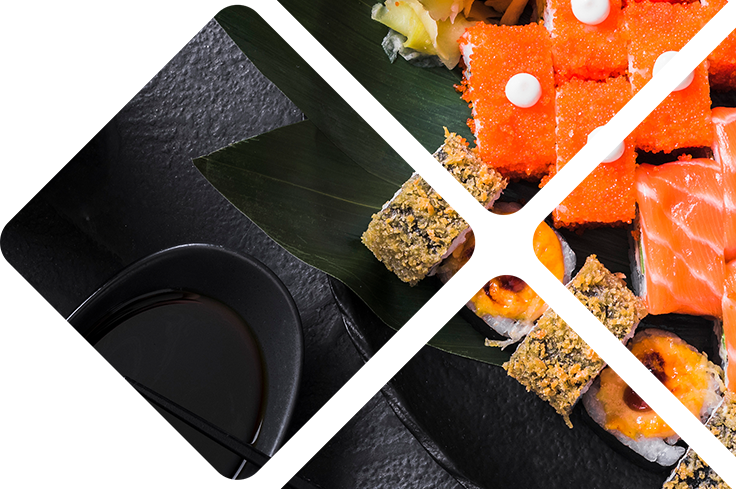
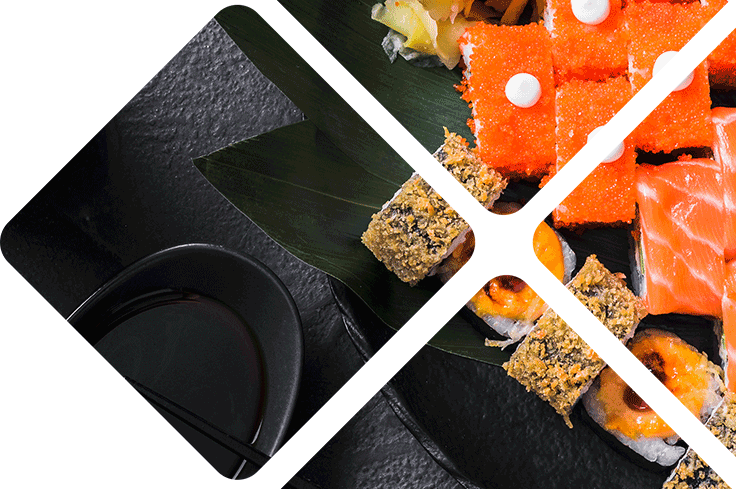
check img for speed

diff --git a/css/main.scss b/css/main.scss
@@ -57,7 +57,7 @@ h1,h2,h3,h4,h5,h6{font-size:inherit;font-weight: 400;}
 $color_main:  rgb( 155, 175, 109 );
 $color_subMain: rgb(208, 243, 127);
 header{
-   background: url(../img/header_bg.png);
+   background: url(../img/header_bg.jpg);
    background-repeat: no-repeat;
    background-position: center;
    background-size: cover;

diff --git a/css/main.css b/css/main.css
@@ -80,7 +80,7 @@ h1, h2, h3, h4, h5, h6 {
 
 /*--------------------*/
 header {
-  background: url(../img/header_bg.png);
+  background: url(../img/header_bg.jpg);
   background-repeat: no-repeat;
   background-position: center;
   background-size: cover;
